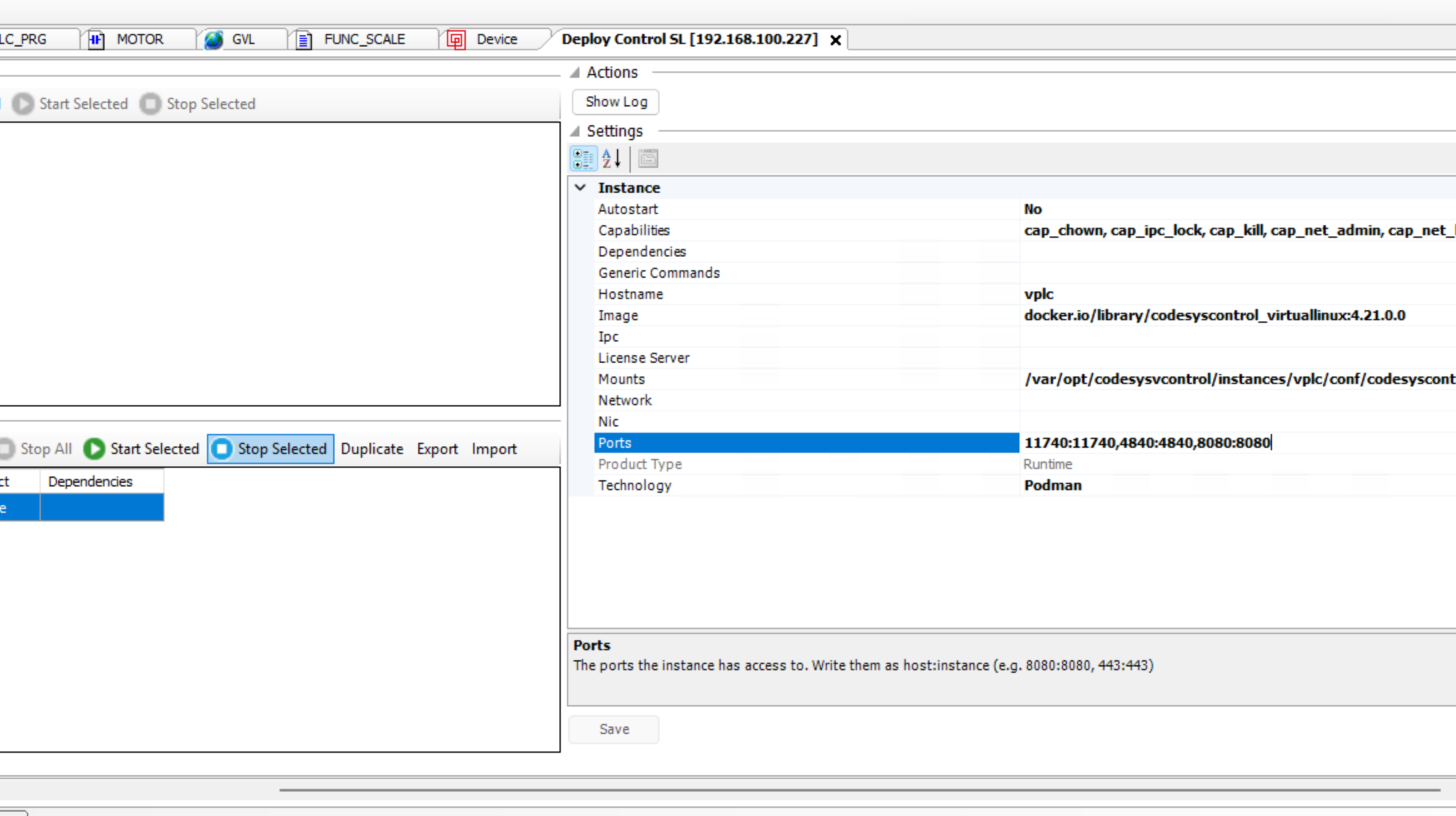
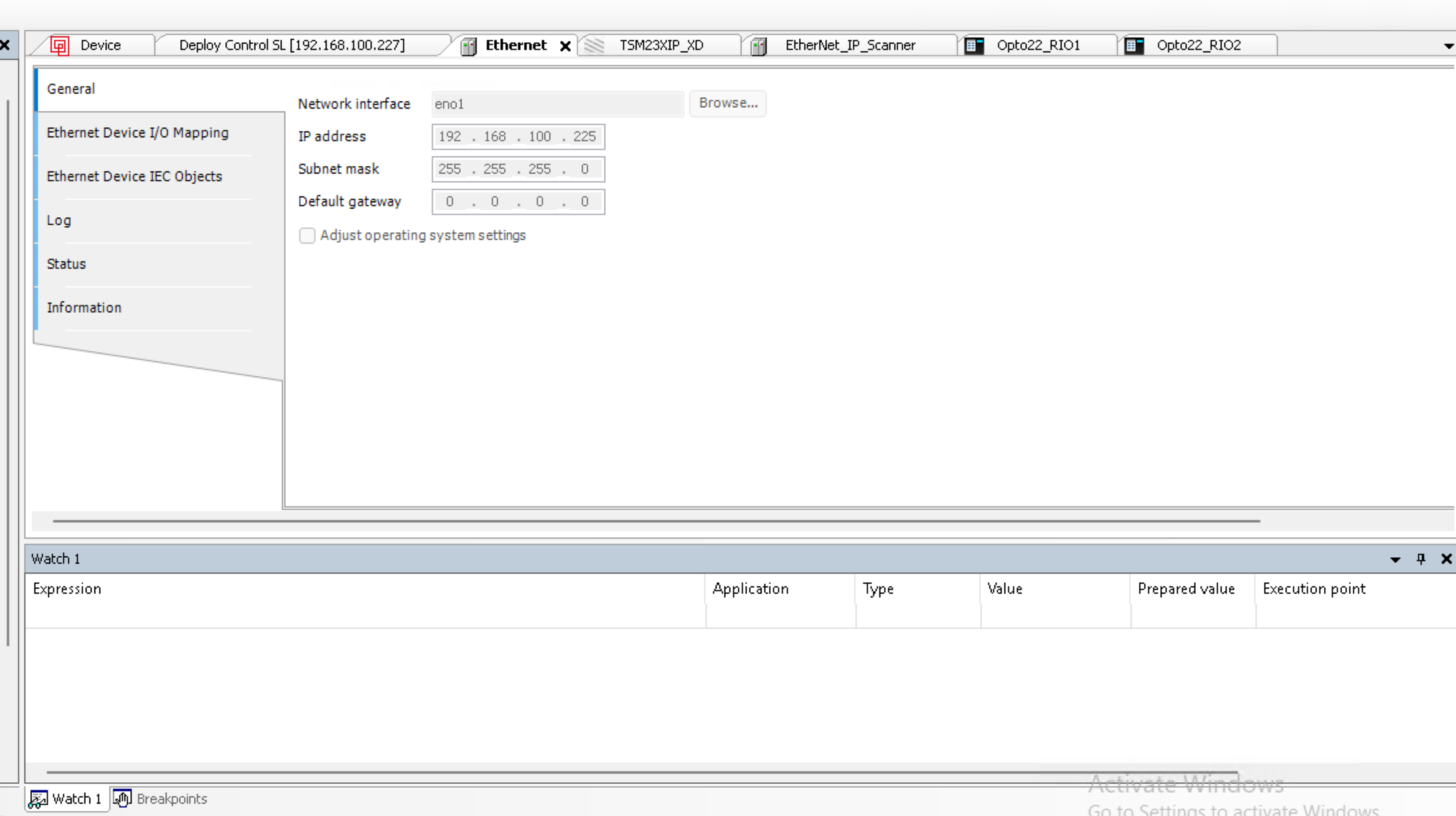
update instructions

diff --git a/workloads/Codesys/CODESYS-Workflow.md b/workloads/Codesys/CODESYS-Workflow.md
@@ -46,26 +46,35 @@ For this to reach the field devices, IPC1's network interface carrying the vPLC 
 
 ## 4) Manual deployment of the Codesys Application to softPLC
 
-Deploy Control SL (softPLC) to the Device
+Deploy Control SL (softPLC) to the Device (this will download the softPLC container image to the Device)
 ![alt text](image-3.png)
 
-Connect to the new Device
+Connect to the new Device (via SSH)
 ![alt text](image-4.png)
 
-Install Virtual Control to the Device
+Install Virtual Control to the Device (import image to Podman)
 ![alt text](image-5.png) 
 
-Installed
+Installed!
 ![alt text](image-6.png)
+```bash
+[admin@control2-rt ~]$ sudo podman images
+REPOSITORY                                     TAG                  IMAGE ID      CREATED       SIZE
+quay.io/luferrar/sps                           ipc-rh10-rt-codesys  aa41f53b572c  11 hours ago  3.84 GB
+quay.io/luferrar/sps                           ipc-rh10-rt          f85ac7a8d20f  16 hours ago  3.65 GB
+docker.io/library/codesyscontrol_virtuallinux  4.21.0.0             a6590499224a  8 weeks ago   152 MB
+```
 
-Add a new instance of Virtual Control
+Add a new instance of Virtual Control (configuration of a container)
 ![alt text](image-7.png)
 
 New VPLC container
 ![alt text](image-8.png)
 
 Configure exposed / mapped ports
-![alt text](image-10.png)
+![alt text](image-21.png)
+>Notice how License server address is configured (if you have a valid license there) and Network section is filled in with an interface information (in this case eno1 has to be dedicated since we are using Eth/IP as protocol)  
+> **REFERENCE** for configuration [here](https://content.helpme-codesys.com/en/CODESYS%20Control/_rtsl_reference.html) 
 
 Start the instance
 ![alt text](image-9.png)
@@ -73,17 +82,18 @@ Start the instance
 Opening target Device properties
 ![alt text](image.png)  
 
-Adding new Device (IPC2)
+Adding new Device (IPC2)  
+*Use the other available interface to connect to the IPC*
 ![alt text](image-1.png)
 
-Have to open firewall port 11740
+Have to open firewall port 11740 for remote management
 ![alt text](image-2.png)
 
 Connected!
 ![alt text](image-11.png)
 
 Before uploading the application, make sure the IP addresses for Ethernet/IP components are correct
-![alt text](image-16.png)  
+![alt text](image-10.png)  
 ![alt text](image-15.png)  
 ![alt text](image-17.png)  
 ![alt text](image-18.png)
@@ -91,7 +101,7 @@ Before uploading the application, make sure the IP addresses for Ethernet/IP com
 Deploy the application to VPLC
 ![alt text](image-12.png)
 
-User management for VPLC (using for now `R3dh4t123!`)
+User management for VPLC (using password `R3dh4t123!`)
 ![alt text](image-13.png)
 
 Upload the application to VPLC
